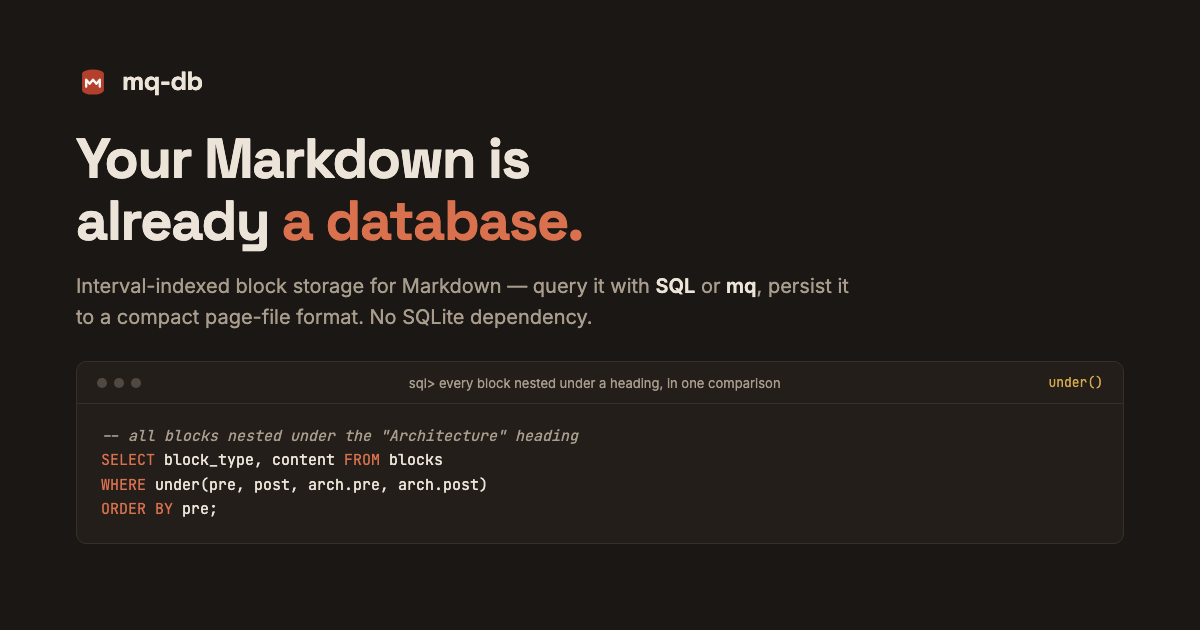
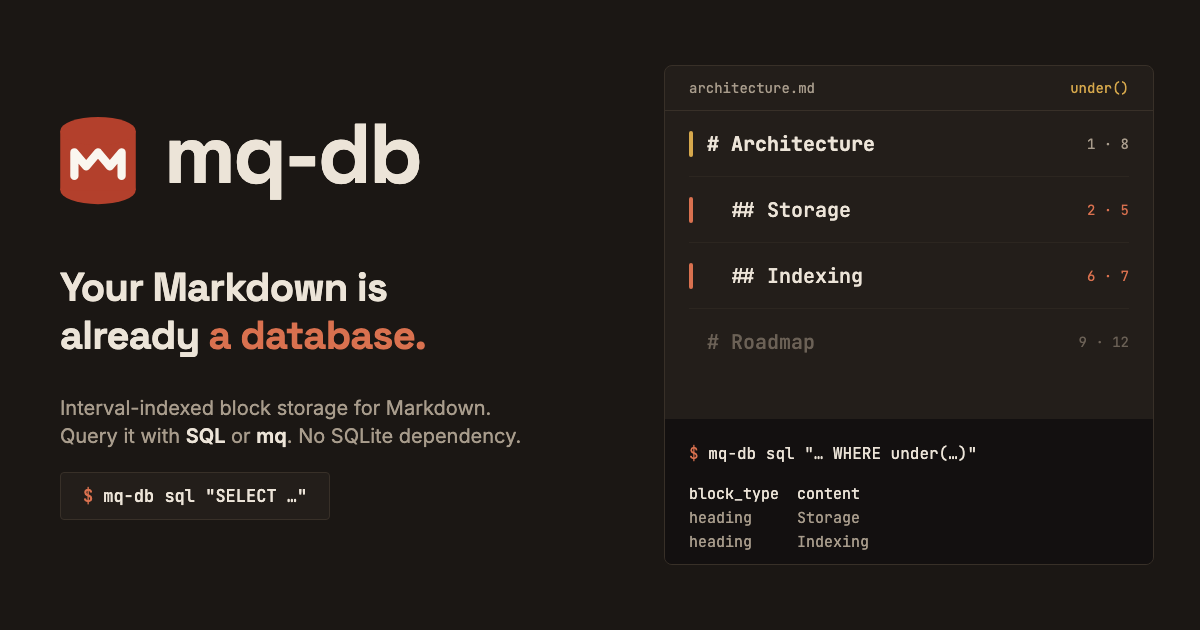
docs: update OGP image and template

diff --git a/assets/ogp.html b/assets/ogp.html
@@ -16,15 +16,16 @@
 />
 <style>
   :root {
-    /* dark ("manuscript by candlelight") palette — matches docs/index.html
-       @media (prefers-color-scheme: dark) :root values */
+    /* dark palette — matches docs/index.html @media (prefers-color-scheme: dark) */
     --c-paper: #1b1714;
     --c-paper-alt: #231e1a;
     --c-paper-deep: #383028;
+    --c-line: #2c2620;
+    --c-term: #131010;
     --c-ink: #ece4d8;
     --c-ink-dim: #a89c8c;
+    --c-ink-faint: #6b6156;
     --c-accent: #d9714f;
-    --c-accent-hover: #e68c6c;
     --c-mark: #d6a84c;
   }
   * { box-sizing: border-box; }
@@ -36,132 +37,118 @@
     color: var(--c-ink);
     overflow: hidden;
   }
-  /* Social platforms crop og:image to varying aspect ratios (2:1, 1.91:1, and
-     square thumbnails on some unfurlers) before display, trimming from every
-     edge. Keep all content inside a safe area well clear of the 1200x630
-     bounds so nothing load-bearing (logo, headline) gets clipped. */
-  .card {
-    width: 1200px;
-    height: 630px;
-    padding: 64px 76px 56px;
-    display: flex;
-    flex-direction: column;
-    position: relative;
-  }
-  .topbar {
-    display: flex;
-    align-items: center;
-  }
+  .abs { position: absolute; }
+  .mono { font-family: "JetBrains Mono", monospace; }
+
+  /* left column: x 60..600 */
+  .logo { left: 39px; top: 98px; width: 118px; height: 118px; }
   .brand {
-    display: flex;
-    align-items: center;
-    gap: 12px;
-  }
-  .brand span {
+    left: 164px; top: 112px;
     font-family: "Space Grotesk", sans-serif;
-    font-weight: 700;
-    font-size: 26px;
+    font-weight: 700; font-size: 84px; line-height: 1;
+    letter-spacing: -0.03em;
+  }
+  .tagline {
+    left: 60px; top: 264px;
+    font-family: "Space Grotesk", sans-serif;
+    font-weight: 700; font-size: 40px; line-height: 1.2;
     letter-spacing: -0.02em;
-    color: var(--c-ink);
   }
-  h1 {
-    font-family: "Space Grotesk", sans-serif;
-    font-weight: 700;
-    font-size: 56px;
-    line-height: 1.1;
-    letter-spacing: -0.025em;
-    margin: 30px 0 20px;
-    max-width: 920px;
-  }
-  h1 em {
-    font-style: normal;
-    color: var(--c-accent);
-  }
-  p.tagline {
-    font-family: "Inter", sans-serif;
-    font-size: 20px;
-    line-height: 1.55;
+  .tagline em { font-style: normal; color: var(--c-accent); }
+  .desc {
+    left: 60px; top: 394px; width: 540px;
+    font-size: 20px; line-height: 28px;
     color: var(--c-ink-dim);
-    max-width: 780px;
-    margin: 0 0 28px;
   }
-  p.tagline b {
-    color: var(--c-ink);
-    font-weight: 600;
-  }
-  .panel {
+  .desc b { color: var(--c-ink); font-weight: 600; }
+  .cmd {
+    left: 60px; top: 472px; height: 48px;
+    padding: 0 22px;
+    display: flex; align-items: center; gap: 10px;
     border: 1px solid var(--c-paper-deep);
-    border-radius: 10px;
+    border-radius: 4px;
+    background: var(--c-paper-alt);
+    font-size: 17px; font-weight: 500;
+  }
+  .cmd .p, .term .p { color: var(--c-accent); }
+
+  /* right column: card x 664..1154, y 65..565 */
+  .card {
+    left: 664px; top: 65px; width: 490px; height: 500px;
+    border: 1px solid var(--c-paper-deep);
+    border-radius: 8px;
     background: var(--c-paper-alt);
     overflow: hidden;
-    box-shadow: 0 1px 2px rgba(42,36,32,0.06);
   }
-  .panel-head {
-    display: flex;
-    align-items: center;
-    justify-content: space-between;
-    padding: 12px 20px;
+  .card-head {
+    height: 45px; padding: 0 24px;
+    display: flex; align-items: center; justify-content: space-between;
     border-bottom: 1px solid var(--c-paper-deep);
+    font-size: 14px; color: var(--c-ink-dim);
   }
-  .dots { display: flex; gap: 7px; }
-  .dots span {
-    width: 10px; height: 10px; border-radius: 50%;
-    background: var(--c-ink-dim); opacity: 0.35;
+  .card-head .tag { color: var(--c-mark); }
+  .rows { padding: 0 24px; }
+  .row {
+    height: 66px;
+    display: flex; align-items: center; gap: 14px;
+    border-bottom: 1px solid var(--c-line);
+    font-size: 20px; font-weight: 500;
   }
-  .panel-head .label {
-    font-family: "Inter", sans-serif;
-    font-size: 13px;
-    color: var(--c-ink-dim);
+  .row:last-child { border-bottom: 0; }
+  .row .bar { width: 4px; height: 26px; border-radius: 2px; background: transparent; }
+  .row .name { flex: 1; }
+  .row .iv { font-size: 14px; font-weight: 400; color: var(--c-ink-dim); }
+  .row.sec .name { font-weight: 700; color: var(--c-ink); }
+  .row.sec .bar { background: var(--c-mark); }
+  .row.in .name { padding-left: 24px; }
+  .row.in .bar { background: var(--c-accent); }
+  .row.in .iv { color: var(--c-accent); }
+  .row.out .name, .row.out .iv { color: var(--c-ink-faint); }
+
+  .term {
+    position: absolute; left: 0; right: 0; bottom: 0; height: 145px;
+    padding: 24px 24px 0;
+    background: var(--c-term);
   }
-  .panel-head .tag {
-    font-family: "JetBrains Mono", monospace;
-    font-size: 13px;
-    color: var(--c-mark);
-  }
-  pre {
-    margin: 0;
-    padding: 20px 24px 22px;
-    font-family: "JetBrains Mono", monospace;
-    font-size: 15px;
-    line-height: 1.62;
-    white-space: pre;
-  }
-  .kw { color: var(--c-accent); }
-  .str { color: var(--c-mark); }
-  .cm { color: var(--c-ink-dim); font-style: italic; }
+  .term .l1 { font-size: 16px; color: var(--c-ink); white-space: nowrap; }
+  .term .out { margin-top: 18px; font-size: 15px; line-height: 24px; color: var(--c-ink-dim); white-space: pre; }
+  .term .out b { color: var(--c-ink); font-weight: 400; }
 </style>
 </head>
 <body>
-  <div class="card">
-    <div class="topbar">
-      <div class="brand">
-        <svg width="34" height="34" viewBox="0 0 100 100" xmlns="http://www.w3.org/2000/svg">
-          <ellipse cx="50" cy="78" rx="32" ry="12" fill="#B3402C"/>
-          <rect x="18" y="28" width="64" height="50" fill="#B3402C"/>
-          <ellipse cx="50" cy="28" rx="32" ry="12" fill="#B3402C"/>
-          <path d="M30 66 L30 46 L40 58 L50 46 L60 58 L70 46 L70 66" fill="none" stroke="#FAF6EF" stroke-width="7" stroke-linecap="round" stroke-linejoin="round"/>
-        </svg>
-        <span>mq-db</span>
-      </div>
+  <svg class="abs logo" viewBox="0 0 100 100" xmlns="http://www.w3.org/2000/svg">
+    <ellipse cx="50" cy="78" rx="32" ry="12" fill="#B3402C"/>
+    <rect x="18" y="28" width="64" height="50" fill="#B3402C"/>
+    <ellipse cx="50" cy="28" rx="32" ry="12" fill="#B3402C"/>
+    <path d="M30 66 L30 46 L40 58 L50 46 L60 58 L70 46 L70 66" fill="none" stroke="#FAF6EF" stroke-width="7" stroke-linecap="round" stroke-linejoin="round"/>
+  </svg>
+  <div class="abs brand">mq-db</div>
+
+  <div class="abs tagline">Your Markdown is<br />already <em>a database.</em></div>
+
+  <div class="abs desc">
+    Interval-indexed block storage for Markdown.<br />
+    Query it with <b>SQL</b> or <b>mq</b>. No SQLite dependency.
+  </div>
+
+  <div class="abs cmd mono"><span class="p">$</span><span>mq-db sql "SELECT …"</span></div>
+
+  <div class="abs card">
+    <div class="card-head mono">
+      <span>architecture.md</span>
+      <span class="tag">under()</span>
     </div>
-
-    <h1>Your Markdown is<br />already <em>a database.</em></h1>
-
-    <p class="tagline">
-      Interval-indexed block storage for Markdown — query it with <b>SQL</b> or <b>mq</b>,
-      persist it to a compact page-file format. No SQLite dependency.
-    </p>
-
-    <div class="panel">
-      <div class="panel-head">
-        <div class="dots"><span></span><span></span><span></span></div>
-        <div class="label">sql&gt; every block nested under a heading, in one comparison</div>
-        <div class="tag">under()</div>
-      </div>
-      <pre><span class="cm">-- all blocks nested under the "Architecture" heading</span>
-<span class="kw">SELECT</span> block_type, content <span class="kw">FROM</span> blocks
-<span class="kw">WHERE</span> under(pre, post, arch.pre, arch.post)
-<span class="kw">ORDER BY</span> pre;</pre>
+    <div class="rows mono">
+      <div class="row sec"><span class="bar"></span><span class="name"># Architecture</span><span class="iv">1 · 8</span></div>
+      <div class="row in"><span class="bar"></span><span class="name">## Storage</span><span class="iv">2 · 5</span></div>
+      <div class="row in"><span class="bar"></span><span class="name">## Indexing</span><span class="iv">6 · 7</span></div>
+      <div class="row out"><span class="bar"></span><span class="name"># Roadmap</span><span class="iv">9 · 12</span></div>
+    </div>
+    <div class="term mono">
+      <div class="l1"><span class="p">$</span> mq-db sql "… WHERE under(…)"</div>
+      <div class="out"><b>block_type  content</b>
+heading     Storage
+heading     Indexing</div>
     </div>
   </div>
 </body>
